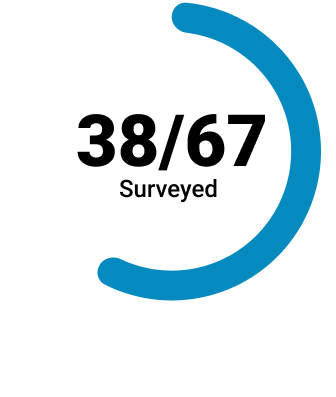
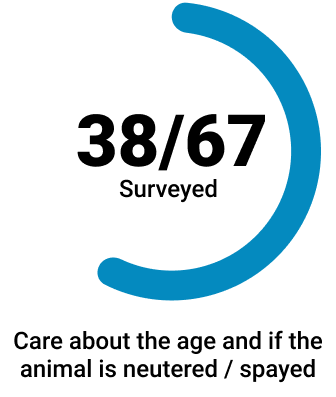
updated bhs page with additional content

Changed region(s): [[0.0298, 0.8161, 0.9821, 0.9673]]

diff --git a/burlington-humane-society.html b/burlington-humane-society.html
@@ -28,7 +28,7 @@
                 </ul>
                 </nav>
                 <div class="hero-text">
-                  <h1 id=heroTextH1>Burlington Humane Society</h1>
+                  <h1 id=heroTextH1><strong>Burlington Humane Society</strong></h1>
                   <p id=heroParagraph>Giving animals a second chance at finding a loving home.</p>
               </div>
             </div>
@@ -36,35 +36,111 @@
         </header>
 <!--Main Content Start-->
 <!--UX HYPOTHESIS SECTION-->
+<div class="d-flex justify-content-center"><h2 id="designProcess"><strong>DESIGN PROCESS</h2></strong></div>
 <div class="d-flex justify-content-center">
-  <img src="images/design-process-bhs.png" class="img-fluid">
+  <div class="col-sm-2"></div>
+  <div class="col-sm-8">
+  <img src="images/design-process-bhs.png" class="img-define">
+</div>
+<div class="col-sm-2"></div>
 </div>
 <div class="d-flex justify-content-center" id="uxHypothesisBox">
+  <div class="col-sm-2"></div>
   <div class="col-sm-4" id="uxHypothesis">
-    <h2>UX HYPOTHESIS</h2>
-    <br><h3>THE PROBLEM:</h3><br>
+    <h2><strong>UX HYPOTHESIS</strong></h2>
+    <br><h3>THE PROBLEM:</h3>
   <ul>
     <li>•Burlington Humane Society does not provide sufficient information about the animals which makes the adoption process more difficult. </li>
     <li>•The adoption process is not clear enough for users.</li>
     <li>•Information on web page is disorganized and overwhelming.</li>
     <li>•Causing users to not have confidence in their animal adoption of choice.</li>
   </ul>
-  <br> <br> <br>
-  <h2>THE SOLUTION:</h2>
+  <h3>THE SOLUTION:</h3>
   <p>We believe that by organizing the information effectively and by clearly outlining the adoption process for our users, this will help us reach our objective of finding a suitable pet for interested adopters.</p>
   </div>
-  <div class="col-sm-4">
-    <img src="images/bhs-black-cat.png" class="img-fluid">
+  <div class="col-sm-6 img-fluid">
   </div>
+
 </div>
 <!--UX HYPOTHESIS SECTION END-->
 <!--Research / Stats Start-->
-<div class="row" id="researchText">
-    <div class="col-sm-4">
-    <h2 id="blackHeader">RESEARCH</h2>
-    <p>We conducted 6 user interviews, and surveyed 67 respondents.
+<div class="d-flex justify-content-left">
+      <div class="col-sm-2"></div>
+      <div class="row col-sm-5" id="researchText">
+        <h2 id="blackHeader">RESEARCH</h2>
+      <p>We conducted 6 user interviews, and surveyed 67 respondents.
      From our research, these are the important points that our users wanted to see when they are looking to adopt.</p>
+      </div>
+      <div class="col-sm-5"></div>
+</div>
+<div class="d-flex justify-content-center">
+  <div class=statsTop>
+    <img src="images/survey-stat-1.png">
+    <img src="images/survey-stat-3.png">
+    <img src="images/survey-stat-5.png">
+  </div>
+</div>
+<div class="d-flex justify-content-center">
+<div class=statsTop>
+    <img src="images/survey-stat-2.png">
+    <img src="images/survey-stat-4.png">
+  </div>
+</div>
+<!--Research Section END-->
+<!--Define Statement Start-->
+<div class="col-sm-2"></div>
+</div>
+<div class="d-flex justify-content-center" id="uxHypothesisBox">
+  <div class="col-sm-2"></div>
+  <div class="col-sm-5" id="uxHypothesis">
+    <h2><strong>DEFINE</strong></h2>
+    <br><h3>PROBLEM STATEMENT:</h3>
+    <p>We have gathered that users have a challenging time navigating and finding the right pet which causes a low engagement rate for the adoption shelter. 
+     <br><br> How might we improve the Burlington Humane Society’s website, in helping increase their adoptions rates and provide users with the confidence to find a compatible pet for their family.
+      </p><br>
+      <h3>USER INSIGHT</h3>
+      <p>We have discovered that a majority of our respondents would like more information on:</p>
+  <ul>
+    <li>•Personality</li>
+    <li>•Age</li>
+    <li>•Pet History (Environment)</li>
+    <li>•Neutered/Spayed</li>
+  </ul>
+  <p>Therefore, we believe that if pet adoption websites provide easier access to necessary adoption information, it would make the adoption process easier and giving confidence to pet adopters in finding a compatible match.</p>
+  </div>
+  <div class="col-sm-5">
+    <div class="sketchBoxes" id="uxHypothesis">
+      <div class="sketch1">
+        <img src="images/sketch1.png">
+      </div>
+      <div class="sketch2">
+        <img src="images/sketch2.png">
+      </div>
+      <div class="sketch3">
+        <img src="images/sketch3.png">
+      </div>
+      <div class="sketch4">
+        <img src="images/sketch4.png">
+      </div>
+      <div class="sketch5">
+        <img src="images/sketch5.png">
+      </div>
+      <div class="sketch6">
+        <img src="images/sketch6.png">
+      </div>
     </div>
+  </div>
+</div>
+<!--Define Section End-->
+<!--Prototyping and Testing Start-->
+<div class="d-flex justify-content-center">
+  <div class="prototypeBox">
+    <div class="prototypeBody"></div>
+    <div class="prototypeImage3"></div>
+    <div class="prototypeImage2"></div>
+    <div class="prototypeImage1"></div>
+    <div class="finalPrototypeImage"></div>
+  </div>
 </div>
 <!--Footer start-->
         <footer>

diff --git a/css/bootstrap.css b/css/bootstrap.css
@@ -728,6 +728,9 @@ footer ul li a:hover {
 }
 
 /* CSS for Burlington Case Study */
+#designProcess {
+    padding: 1.5%;
+}
 #uxHypothesisBox {
     background: #30AFE3;
 }
@@ -736,18 +739,87 @@ footer ul li a:hover {
     text-justify: center;
     margin-top: 1.5%;
 }
+.img-define {
+    width: 100%;
+    height: auto;
+}
 
-
+.img-fluid {
+background-image: url('https://images.pexels.com/photos/1440403/pexels-photo-1440403.jpeg?auto=compress&cs=tinysrgb&w=1260&h=750&dpr=1');
+width: 100%;
+height: auto;
+}
+.img-sketch {
+    background-image: url('../images/sketches.png');
+    background-size: cover;
+}
 
 /* Research CSS Section */
 #researchText {
     margin-top: 1.5%;
-    margin-left: 17.5%;
+    padding-left: 30px;
+    border: 16px;
 }
-#researchBody {
-    margin-left: 17.5;
+.statsTop {
+    margin-top: 1.5%;
+    margin-bottom: 1.5%
+}
+.sketchBoxes {
+    display: grid;
+    background-color: #30AFE3;
+    width: 100%;
+    grid-template-columns: 1fr 1fr 1fr;
+    grid-template-rows: 0.8fr 1fr 1.2fr;
+    gap: 0px 0px;
+    grid-auto-flow: row;
+    grid-template-areas:
+      "sketch1 sketch2 ."
+      "sketch3 sketch4 ."
+      "sketch5 sketch6 .";
+  }
+  
+  .sketch1 { grid-area: sketch1;
+    padding:16px; }
+  
+  .sketch2 { grid-area: sketch2;
+    padding:16px; }
+  
+  .sketch3 { grid-area: sketch3;
+    padding:16px; }
+  
+  .sketch4 { grid-area: sketch4;
+    padding:16px; }
+  
+  .sketch5 { grid-area: sketch5;
+    padding:16px; }
+  
+  .sketch6 { grid-area: sketch6;
+    padding:16px; }
+.sketchBoxes img {
+    width: 100%;
+    height: auto;
 }
 
-#researchText .col-sm-4 {
-    padding-left: 0;
-}
+/*Prototype CSS Start */
+.prototypeBox {
+    display: grid;
+    grid-template-columns: 1fr 1fr 1fr;
+    grid-template-rows: 0.8fr 1fr 1.2fr;
+    gap: 0px 0px;
+    grid-auto-flow: row;
+    grid-template-areas:
+      "prototypeBody prototypeBody prototypeImage3"
+      "prototypeImage1 prototypeImage2 prototypeImage3"
+      "finalPrototypeImage finalPrototypeImage finalPrototypeImage";
+  }
+  
+  .prototypeBody { grid-area: prototypeBody; }
+  
+  .prototypeImage3 { grid-area: prototypeImage3; }
+  
+  .prototypeImage2 { grid-area: prototypeImage2; }
+  
+  .prototypeImage1 { grid-area: prototypeImage1; }
+  
+  .finalPrototypeImage { grid-area: finalPrototypeImage; }
+  
